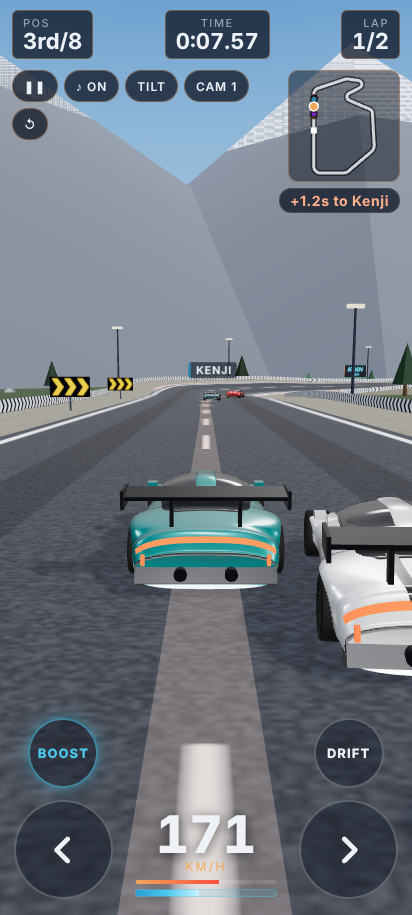
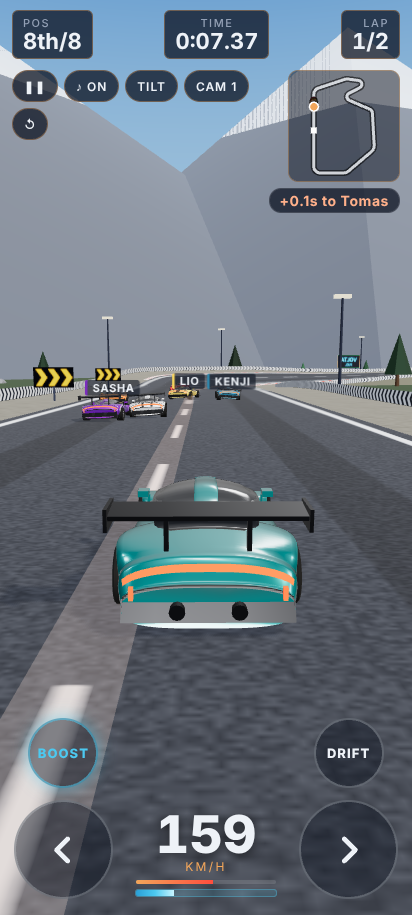
Retune difficulty: slower, mistake-prone Easy rivals with catch-up, steadier assisted handling, beginner-bot tests
Claude-Session: https://claude.ai/code/session_01GBobAJkSqpPVNqa2GTDbwk

diff --git a/src/main.js b/src/main.js
@@ -11,7 +11,8 @@ import { CARS, PAINTS, carById, carSpec } from "./cars.js";
 import { makeCar, setDoors, setRims, setDecal, RIMS, DECALS } from "./carmodel.js";
 import { Showroom } from "./showroom.js";
 import { Ghost } from "./ghost.js";
-import { assistSteer, cornerSpeed } from "./assist.js";
+import { assistSteer, cornerSpeed, smoothSteer } from "./assist.js";
+import { levelOf, slot, rivalSpec, AUTO_BRAKE, AUTO_ASSIST } from "./race.js";
 import { EVENTS, eventUnlocked, trackUnlocked, judge } from "./career.js";
 import { UPGRADES, MAX_LEVEL, upgradeCost, RIM_COST, raceRewards } from "./economy.js";
 import { Vehicle } from "./vehicle.js";
@@ -94,8 +95,6 @@ function buildPlayer(id = save.car) {
   G.player.spec = carSpec(def, cs.upgrades);
 }
 
-// Grid slots: two columns, staggered. The player starts near the back so there's a field to race through.
-function slot(k) { const row = Math.floor(k / 2), col = k % 2; return [-7 - row * 9 - col * 4.5, col ? -3.3 : 3.3]; }
 
 function buildRivals() {
   for (const r of G.rivals) scene.remove(r.model.group);
@@ -120,12 +119,12 @@ function gridUp() {
   const ps = slot(Math.min(G.gridSlot, G.rivals.length)); G.player.reset(ps[0], ps[1]);
   let k = 0;
   const ps2 = G.player.spec;
-  const DIFF = { easy: 0.93, normal: 1, hard: 1.035 }[save.settings.difficulty || "easy"];
-  for (const r of G.rivals) { r.out = false; r.driver.skill = (r.driver.baseSkill ?? r.baseSkill) * DIFF; }
+  const level = levelOf(save.settings.difficulty);
+  for (const r of G.rivals) { r.out = false; r.driver.skill = r.baseSkill; r.driver.level = level; }
   for (const r of G.field) {
     // rivals drive their own cars, but tuned halfway toward yours so races stay close
     const base = carSpec(carById(r.carId), {});
-    r.veh.spec = Object.fromEntries(Object.keys(base).map((key) => [key, base[key] * 0.45 + ps2[key] * 0.55]));
+    r.veh.spec = rivalSpec(base, ps2);
     if (k === Math.min(G.gridSlot, G.rivals.length)) k++;
     const [d, lat] = slot(G.field.length === 1 ? 0 : k++); r.veh.track = G.path; r.veh.boost = 0.25; r.veh.reset(d, lat); r.finished = null;
   }
@@ -469,6 +468,8 @@ function autopilot(v) {
 
 // Driver aids follow the settings; "auto" means on when rivals are on Easy.
 function applyAids() { const m = G.track && world.trackGroup && world.trackGroup.getObjectByName("racingLine"); if (m) m.visible = aidOn("line"); }
+// steering assist strength: Auto follows the difficulty (full on Easy, lighter on Medium, off on Hard)
+function assistLevel() { const v = save.settings.assist || "auto"; return v === "on" ? 0.55 : v === "off" ? 0 : AUTO_ASSIST[save.settings.difficulty || "easy"] || 0; }
 function aidOn(key) { const v = save.settings[key] || "auto"; return v === "on" || (v === "auto" && (save.settings.difficulty || "easy") === "easy"); }
 
 function stepRivals(dt) {
@@ -533,9 +534,11 @@ function step(dt) {
   const v = G.player, racing = G.mode === "race";
   const ctl = readControls();
   const ap = AUTOPILOT && racing ? autopilot(v) : null;
-  v.ctl.steer = ap ? ap.steer : racing ? assistSteer(v, G.path, ctl.steer, aidOn("assist") ? 0.55 : 0) : ctl.steer;
+  const aid = assistLevel();
+  const steerIn = input.tiltOn ? ctl.steer : smoothSteer(G.touch || (G.touch = {}), ctl.steer, v.vF, v.spec.vmax, dt);
+  v.ctl.steer = ap ? ap.steer : racing ? assistSteer(v, G.path, steerIn, aid) : steerIn;
   v.ctl.boost = ctl.boost; v.ctl.drift = ctl.drift; v.ctl.brake = ctl.brake;
-  v.ctl.targetSpeed = ap ? ap.targetSpeed : cornerSpeed(v, G.path);
+  v.ctl.targetSpeed = ap ? ap.targetSpeed : cornerSpeed(v, G.path, AUTO_BRAKE[save.settings.difficulty] || 1, aid ? 1 : 0);
   if (G.bog > 0) { G.bog -= dt; v.ctl.targetSpeed = Math.min(v.ctl.targetSpeed, 4); }
   if (G.mode === "race" || G.mode === "done") {
     v.step(dt, racing);
@@ -713,7 +716,7 @@ addEventListener("error", (e) => errors.push(String(e.message)));
 if (TEST) {
   window.__apex = {
     get mode() { return G.mode; },
-    get player() { const v = G.player; return { x: v.x, z: v.z, h: v.h, vF: v.vF, totalD: v.totalD, boost: v.boost, boosting: v.boosting, drifting: v.drifting, driftAngle: v.driftAngle, lat: v.lat }; },
+    get player() { const v = G.player; return { x: v.x, z: v.z, h: v.h, vF: v.vF, totalD: v.totalD, boost: v.boost, boosting: v.boosting, drifting: v.drifting, driftAngle: v.driftAngle, lat: v.lat, hErr: wrapA(v.h - v.p.h) }; },
     get skidCount() { return skids.n; },
     setBoost(b) { G.player.boost = b; },
     get laps() { return G.lapTimes.slice(); },

diff --git a/src/ai.js b/src/ai.js
@@ -1,6 +1,7 @@
 // Rule-based rival drivers. No learning, no network: each rival follows the racing line with its own personality,
 // brakes from the track's speed profile, makes the odd mistake, overtakes, defends, and uses slipstream and boost.
 import { makeRng } from "./rng.js";
+import { LEVELS } from "./race.js";
 
 const clamp = (v, a, b) => (v < a ? a : v > b ? b : v);
 const wrapA = (a) => { while (a > Math.PI) a -= 2 * Math.PI; while (a < -Math.PI) a += 2 * Math.PI; return a; };
@@ -22,7 +23,8 @@ const STYLES = {
 };
 
 export class Driver {
-  constructor(vehicle, profile, skill, seed) {
+  constructor(vehicle, profile, skill, seed, level = LEVELS.normal) {
+    this.level = level;
     this.v = vehicle; this.name = profile.name; this.color = profile.color; this.style = profile.style;
     this.p = STYLES[profile.style]; this.skill = skill; this.rnd = makeRng(seed);
     this.lineBias = (this.rnd() - 0.5) * 1.6;
@@ -36,7 +38,7 @@ export class Driver {
 
     // occasional mistakes: lift early or run wide for a moment
     if (this.mistakeT > 0) this.mistakeT -= dt;
-    else if (this.rnd() < P.mistake * dt * 6) { this.mistake = this.rnd() < 0.5 ? "lift" : "wide"; this.mistakeT = 0.8 + this.rnd() * 1.2; }
+    else if (this.rnd() < P.mistake * this.level.mistakes * dt * 6) { this.mistake = this.rnd() < 0.5 ? "lift" : "wide"; this.mistakeT = 0.8 + this.rnd() * 1.2; }
     if (this.mistakeT <= 0) this.mistake = null;
 
     // look for traffic ahead (overtake) and behind (defend)
@@ -73,17 +75,24 @@ export class Driver {
     const prof = t.speedProfile(v.spec.grip);
     let vt = Infinity;
     for (let k = 0; k < 44; k += 3) vt = Math.min(vt, prof[(v.p.i + k) % t.N]);
-    let pace = P.pace * this.skill * P.brake;
+    const Lv = this.level;
+    let pace = P.pace * this.skill * Lv.pace * (P.brake * Lv.brake);
     if (this.mistake === "lift") pace *= 0.86;
     // subtle rubber-banding so the pack stays together
     if (gapToPlayer > 120) pace *= 0.97; else if (gapToPlayer < -120) pace *= 1.03;
+    // catch-up help: when you're well behind, the rivals ahead of you ease off (only on the easier levels)
+    if (Lv.catchUp && gapToPlayer > 40) pace *= 1 - Lv.catchUp * Math.min(0.12, (gapToPlayer - 40) / 800);
     v.ctl.targetSpeed = vt * Math.min(1.02, pace);
+    // easy rivals also don't carry full speed on the straights
+    if (Lv.pace < 0.9) v.ctl.targetSpeed = Math.min(v.ctl.targetSpeed, v.spec.vmax * (Lv.pace + 0.06));
     // don't drive into the back of someone: follow until there's a gap to pass
     if (ahead && ahead.dd < 11 && Math.abs(ahead.dl) < 2.3) v.ctl.targetSpeed = Math.min(v.ctl.targetSpeed, ahead.o.vF + (this.style === "aggressive" ? 1.5 : 0));
 
     // boost on long straights
     let straight = Infinity; for (let k = 0; k < 60; k += 4) straight = Math.min(straight, prof[(v.p.i + k) % t.N]);
-    v.ctl.boost = straight > v.spec.vmax * 0.95 && v.boost > 0.3 && this.rnd() < P.boost;
+    // boost: hard rivals pick the straights; easy ones fire it at random-ish moments, often wasting it
+    const wantBoost = this.rnd() < Lv.boost ? straight > v.spec.vmax * 0.95 : this.rnd() < 0.004;
+    if (!v.boosting) v.ctl.boost = wantBoost && v.boost > 0.3 && this.rnd() < P.boost * Lv.boost;
     if (!v.boosting) v.boost = Math.min(1, v.boost + dt * 0.02);
     v.ctl.drift = false; v.ctl.brake = false;
   }

diff --git a/tests/sim.js b/tests/sim.js
@@ -1,0 +1,60 @@
+// Headless race simulator for tests: the same physics, AI, assists and race setup the game uses, with a
+// "beginner bot" standing in for the player.
+import { TRACKS } from "../src/tracks.js";
+import { TrackPath } from "../src/track.js";
+import { CARS, carSpec } from "../src/cars.js";
+import { Vehicle } from "../src/vehicle.js";
+import { Driver, RIVALS, collide } from "../src/ai.js";
+import { assistSteer, cornerSpeed, lineSteer, smoothSteer } from "../src/assist.js";
+import { levelOf, slot, rivalSpec, AUTO_BRAKE, AUTO_ASSIST } from "../src/race.js";
+import { makeRng } from "../src/rng.js";
+
+// A beginner: holds left or right (like touching a half of the screen), reacts ~0.3 s late, only steers once the
+// car is clearly off line, looks away now and then, and never boosts.
+export class BeginnerBot {
+  constructor(seed) { this.rnd = makeRng(seed); this.queue = []; this.away = 0; this.hold = 0; }
+  input(v, t, dt) {
+    const want = lineSteer(v, t, 0.3);
+    let press = Math.abs(want) > 0.25 ? Math.sign(want) : 0;
+    if (this.away > 0) { this.away -= dt; press = 0; } else if (this.rnd() < dt / 12) this.away = 0.4 + this.rnd() * 0.5;
+    this.queue.push(press);
+    return this.queue.length > 12 ? this.queue.shift() : 0; // 12 frames = 0.2 s reaction time
+  }
+}
+
+export function race(trackId, levelName, { seed = 7, aids = AUTO_ASSIST[levelName] || 0, laps = 2 } = {}) {
+  const def = TRACKS.find((t) => t.id === trackId), path = new TrackPath(def), level = levelOf(levelName);
+  const rnd = makeRng(seed);
+  const player = new Vehicle(carSpec(CARS[0]), path);
+  const ps = slot(5); player.reset(ps[0], ps[1]);
+  const rivals = [];
+  for (let k = 0, s = 0; k < 7; k++, s++) {
+    if (s === 5) s++;
+    const cdef = CARS[(k + 1) % CARS.length], veh = new Vehicle(rivalSpec(carSpec(cdef), player.spec), path);
+    const [d, lat] = slot(s); veh.reset(d, lat);
+    const drv = new Driver(veh, RIVALS[k], 0.95 + rnd() * 0.05, seed * 31 + k, level);
+    rivals.push({ veh, drv, name: RIVALS[k].name });
+  }
+  const bot = new BeginnerBot(seed + 99), L = path.length * laps, cars = [player, ...rivals.map((r) => r.veh)];
+  let t = 0, finish = null; const done = new Map(); const stats = { walls: 0, off: 0, latAbs: 0 };
+  for (let step = 0; step < 60 * 400 && finish == null; step++) {
+    const dt = 1 / 60; t += dt;
+    const input = smoothSteer(bot, bot.input(player, path, dt), player.vF, player.spec.vmax, dt);
+    player.ctl.steer = assistSteer(player, path, input, aids);
+    player.ctl.targetSpeed = cornerSpeed(player, path, AUTO_BRAKE[levelName] || 1, aids ? 1 : 0);
+    player.ctl.boost = false; player.ctl.drift = false;
+    player.step(dt, true);
+    if (player.wallHit > 1) stats.walls++;
+    if (player.offTrack) stats.off += dt;
+    stats.latAbs += Math.abs(player.lat) * dt;
+    for (const r of rivals) {
+      r.drv.think(dt, cars, r.veh.totalD - player.totalD);
+      r.veh.step(dt, true);
+      if (!done.has(r) && r.veh.totalD >= L) done.set(r, t);
+    }
+    collide(cars);
+    if (player.totalD >= L) finish = t;
+  }
+  const place = 1 + rivals.filter((r) => done.has(r) && done.get(r) < finish).length;
+  return { place, time: finish, walls: stats.walls, off: +stats.off.toFixed(1), latAvg: +(stats.latAbs / finish).toFixed(1), rivalBest: Math.min(...done.values()) };
+}

diff --git a/sw.js b/sw.js
@@ -1,6 +1,6 @@
 // Generated by scripts/sw.mjs. Cache-first service worker so Apex Ring works offline once installed.
-const CACHE = "apex-ring-9a98acd85d";
-const FILES = ["./","./icons/icon-192.png","./icons/icon-512.png","./icons/icon.svg","./index.html","./manifest.webmanifest","./src/ai.js","./src/assist.js","./src/audio.js","./src/camera.js","./src/career.js","./src/carmodel.js","./src/cars.js","./src/economy.js","./src/effects.js","./src/env.js","./src/ghost.js","./src/input.js","./src/main.js","./src/minimap.js","./src/rng.js","./src/save.js","./src/scene.js","./src/scenery.js","./src/showroom.js","./src/textures.js","./src/track.js","./src/trackmesh.js","./src/tracks.js","./src/vehicle.js","./styles.css","./vendor/three/addons/environments/RoomEnvironment.js","./vendor/three/addons/postprocessing/EffectComposer.js","./vendor/three/addons/postprocessing/MaskPass.js","./vendor/three/addons/postprocessing/OutputPass.js","./vendor/three/addons/postprocessing/Pass.js","./vendor/three/addons/postprocessing/RenderPass.js","./vendor/three/addons/postprocessing/ShaderPass.js","./vendor/three/addons/postprocessing/UnrealBloomPass.js","./vendor/three/addons/shaders/CopyShader.js","./vendor/three/addons/shaders/LuminosityHighPassShader.js","./vendor/three/addons/shaders/OutputShader.js","./vendor/three/addons/utils/BufferGeometryUtils.js","./vendor/three/three.core.js","./vendor/three/three.module.js"];
+const CACHE = "apex-ring-5aab456bd0";
+const FILES = ["./","./icons/icon-192.png","./icons/icon-512.png","./icons/icon.svg","./index.html","./manifest.webmanifest","./src/ai.js","./src/assist.js","./src/audio.js","./src/camera.js","./src/career.js","./src/carmodel.js","./src/cars.js","./src/economy.js","./src/effects.js","./src/env.js","./src/ghost.js","./src/input.js","./src/main.js","./src/minimap.js","./src/race.js","./src/rng.js","./src/save.js","./src/scene.js","./src/scenery.js","./src/showroom.js","./src/textures.js","./src/track.js","./src/trackmesh.js","./src/tracks.js","./src/vehicle.js","./styles.css","./vendor/three/addons/environments/RoomEnvironment.js","./vendor/three/addons/postprocessing/EffectComposer.js","./vendor/three/addons/postprocessing/MaskPass.js","./vendor/three/addons/postprocessing/OutputPass.js","./vendor/three/addons/postprocessing/Pass.js","./vendor/three/addons/postprocessing/RenderPass.js","./vendor/three/addons/postprocessing/ShaderPass.js","./vendor/three/addons/postprocessing/UnrealBloomPass.js","./vendor/three/addons/shaders/CopyShader.js","./vendor/three/addons/shaders/LuminosityHighPassShader.js","./vendor/three/addons/shaders/OutputShader.js","./vendor/three/addons/utils/BufferGeometryUtils.js","./vendor/three/three.core.js","./vendor/three/three.module.js"];
 
 self.addEventListener("install", (e) => { e.waitUntil(caches.open(CACHE).then((c) => c.addAll(FILES)).then(() => self.skipWaiting())); });
 self.addEventListener("activate", (e) => {

diff --git a/src/assist.js b/src/assist.js
@@ -13,11 +13,17 @@ export function lineSteer(v, t, lineScale = 0.85) {
 }
 
 // Target speed for the auto-brake. margin > 1 brakes later (harder), < 1 earlier (safer).
-export function cornerSpeed(v, t, margin = 1.06) {
-  if (v.drifting) return Infinity;
+// guard > 0 also lifts when the car is heading for a barrier it can't turn away from in time.
+export function cornerSpeed(v, t, margin = 1.06, guard = 0) {
   const prof = t.speedProfile(v.spec.grip * 1.1);
   let vt = Infinity; for (let k = 2; k < 30; k += 3) vt = Math.min(vt, prof[(v.p.i + k) % t.N]);
-  return vt * margin;
+  vt *= margin;
+  if (guard) {
+    const trx = -Math.cos(v.p.h), trz = Math.sin(v.p.h), latV = v.vx * trx + v.vz * trz;
+    const room = t.width / 2 + t.runoff - 2 - Math.abs(v.lat);
+    if (Math.sign(latV) === Math.sign(v.lat) && Math.abs(latV) > 1 && room / Math.abs(latV) < 0.8) vt = Math.min(vt, v.vF * (1 - 0.25 * guard));
+  }
+  return vt;
 }
 
 // Blend the player's steering with the assist. strength 0..1 (0 = off).
@@ -26,7 +32,14 @@ export function assistSteer(v, t, input, strength) {
   let out = input;
   // toward the racing line: strongest when the player isn't steering, light touch when they are
   const ls = lineSteer(v, t);
-  out += (ls - input) * strength * (Math.abs(input) < 0.05 ? 0.6 : 0.2);
+  // heading limiter: you can't swing the nose much more than ~15-20 degrees off the track's direction,
+  // which stops a late correction turning into a weave from wall to wall
+  const hErr = wrapA(v.h - v.p.h); // > 0: pointing left of the track
+  const away = input < 0 ? hErr : -hErr; // how far the current input is pushing the nose away
+  if (away > 0.12) input *= Math.max(0, 1 - (away - 0.12) / (0.18 / Math.max(0.3, strength * 1.8)));
+  out = input;
+  const fighting = Math.abs(input) > 0.05 && Math.sign(input) !== Math.sign(ls) && Math.abs(ls) > 0.2;
+  out += (ls - input) * strength * (Math.abs(input) < 0.05 ? 0.6 : fighting ? 0.45 : 0.2);
   // wall guard: predict where the car will be in ~0.7 s and steer away if that's near the barrier
   const trx = -Math.cos(v.p.h), trz = Math.sin(v.p.h);
   const latV = v.vx * trx + v.vz * trz;
@@ -36,4 +49,14 @@ export function assistSteer(v, t, input, strength) {
     out -= Math.sign(v.lat) * push; // positive lateral is the right-hand side, so steer left (negative)
   }
   return clamp(out, -1, 1);
+}
+
+// Touch steering is on/off, so build the lock up progressively (slower at speed) and let it go quickly.
+// state is any object; returns the smoothed steering value.
+export function smoothSteer(state, raw, vF, vmax, dt) {
+  const cur = state.s || 0, f = Math.min(1, Math.max(0, vF / vmax));
+  const toward = Math.abs(raw) > Math.abs(cur) && Math.sign(raw) !== -Math.sign(cur);
+  const rate = toward ? 5 - 3 * f : 10;
+  state.s = cur + (raw - cur) * Math.min(1, dt * rate);
+  return state.s;
 }

diff --git a/src/race.js b/src/race.js
@@ -1,0 +1,24 @@
+// Race setup shared by the game and the tests: difficulty levels, grid slots and rival car tuning.
+
+// pace: share of the ideal corner speed rivals carry; brake: how late they brake (lower = earlier);
+// mistakes: how often they slip up; boost: how well they use boost; catchUp: rivals ease off when you fall behind.
+export const LEVELS = {
+  easy: { pace: 0.74, brake: 0.92, mistakes: 2.5, boost: 0.25, catchUp: 1 },
+  normal: { pace: 0.785, brake: 0.96, mistakes: 1.3, boost: 0.7, catchUp: 0.3 },
+  hard: { pace: 1.0, brake: 1.03, mistakes: 0.6, boost: 1, catchUp: 0 },
+};
+export const levelOf = (name) => LEVELS[name] || LEVELS.easy;
+
+// Grid slots: two columns, staggered. The player starts near the back so there's a field to race through.
+export function slot(k) { const row = Math.floor(k / 2), col = k % 2; return [-7 - row * 9 - col * 4.5, col ? -3.6 : 3.6]; }
+
+// Rivals drive their own cars, tuned halfway toward the player's so upgrades help without breaking races.
+export function rivalSpec(base, player) {
+  return Object.fromEntries(Object.keys(base).map((k) => [k, base[k] * 0.45 + player[k] * 0.55]));
+}
+
+// Corner-speed margin for the player's auto-brake by level: Easy brakes earliest.
+export const AUTO_BRAKE = { easy: 0.9, normal: 1.0, hard: 1.06 };
+
+// Steering-assist strength when the setting is Auto: full on Easy, a bit lighter on Medium, off on Hard.
+export const AUTO_ASSIST = { easy: 0.55, normal: 0.45, hard: 0 };

diff --git a/tests/game.spec.js b/tests/game.spec.js
@@ -33,20 +33,13 @@ test.describe("Apex Ring", () => {
     await page.waitForFunction((d0) => window.__apex.player.totalD > d0 + 20, a.totalD, { timeout: 20_000 });
     const b = await game(page, () => window.__apex.player);
     expect(b.vF).toBeGreaterThan(5);
-    // steer right for a moment and compare heading change with the track's own curve
-    const h0 = (await game(page, () => window.__apex.player)).h;
+    // hold right, then left: the nose should point right of the track, then left of it (hErr > 0 = pointing left)
     await page.keyboard.down("ArrowRight");
-    await page.waitForTimeout(400);
+    await page.waitForFunction(() => window.__apex.player.hErr < -0.04, null, { timeout: 10_000 });
     await page.keyboard.up("ArrowRight");
-    const h1 = (await game(page, () => window.__apex.player)).h;
     await page.keyboard.down("ArrowLeft");
-    await page.waitForTimeout(400);
+    await page.waitForFunction(() => window.__apex.player.hErr > 0.04, null, { timeout: 10_000 });
     await page.keyboard.up("ArrowLeft");
-    const h2 = (await game(page, () => window.__apex.player)).h;
-    const d = (x) => Math.atan2(Math.sin(x), Math.cos(x));
-    // right turns decrease heading, left turns increase it
-    expect(d(h1 - h0)).toBeLessThan(d(h2 - h1));
-    expect(Math.abs(d(h1 - h0))).toBeGreaterThan(0.05);
   });
 
   test("drifting leaves skid marks and fills boost; boost spends it", async ({ page }) => {

diff --git a/tests/difficulty.spec.js b/tests/difficulty.spec.js
@@ -1,0 +1,27 @@
+import { test, expect } from "@playwright/test";
+import { race } from "./sim.js";
+import { TRACKS } from "../src/tracks.js";
+
+// A "beginner bot" (on/off steering, 0.2 s late, lazy, looks away now and then, never boosts) races the real AI.
+const seeds = [1, 2, 3, 4];
+
+test("a beginner finishes in the top 3 on every Easy track on Easy", () => {
+  for (const t of TRACKS.filter((t) => t.difficulty === 1)) for (const seed of seeds) {
+    const r = race(t.id, "easy", { seed });
+    expect(r.place, `${t.id} seed ${seed}`).toBeLessThanOrEqual(3);
+  }
+});
+
+test("a beginner ends up mid-pack on Medium", () => {
+  let sum = 0, n = 0;
+  for (const t of TRACKS) for (const seed of seeds) { sum += race(t.id, "normal", { seed }).place; n++; }
+  const avg = sum / n;
+  expect(avg).toBeGreaterThanOrEqual(3);
+  expect(avg).toBeLessThanOrEqual(6);
+});
+
+test("Hard is properly hard for a beginner", () => {
+  let sum = 0, n = 0;
+  for (const t of TRACKS.filter((t) => t.difficulty === 1)) { sum += race(t.id, "hard", { seed: 1 }).place; n++; }
+  expect(sum / n).toBeGreaterThanOrEqual(6);
+});

diff --git a/index.html b/index.html
@@ -152,7 +152,7 @@
     <div class="tabs" id="assistTabs"><button class="tab" data-a="auto" type="button">Auto</button><button class="tab" data-a="on" type="button">On</button><button class="tab" data-a="off" type="button">Off</button></div>
     <div class="label">Racing line on the road</div>
     <div class="tabs" id="lineTabs"><button class="tab" data-l="auto" type="button">Auto</button><button class="tab" data-l="on" type="button">On</button><button class="tab" data-l="off" type="button">Off</button></div>
-    <div class="hint">Auto = on when rivals are set to Easy.</div>
+    <div class="hint">Auto: assist is full on Easy, lighter on Medium, off on Hard; the racing line shows on Easy.</div>
     <div class="label">Sound</div>
     <div class="tabs" id="soundTabs"><button class="tab" data-s="1" type="button">On</button><button class="tab" data-s="0" type="button">Off</button></div>
     <button class="btn ghost danger" id="resetBtn" type="button">Reset all progress</button>

diff --git a/CLAUDE.md b/CLAUDE.md
@@ -103,3 +103,13 @@ Feedback from a real Pixel 7: looks great, too hard. Five fixes, one commit each
   nudges toward the racing line and steers away from a barrier it predicts you'll hit in ~0.7 s. Settings: Steering
   assist and Racing line each Auto/On/Off, where Auto = on when rivals are Easy (new default difficulty: Easy).
   Choice: old saves keep their career progress; trial targets and some events changed to suit the new tracks.
+- Fix 2 — difficulty: src/race.js holds the levels (pace, braking point, mistakes, boost skill, catch-up), grid slots and
+  rival car tuning, shared by the game and the tests. tests/sim.js is a headless race with a "beginner bot" (on/off
+  steering, 0.2 s late, lazy dead zone, looks away now and then, never boosts). Finding: on/off steering with any
+  reaction delay made the car weave wall to wall, which is likely what made it feel too hard on the phone. Fixes:
+  progressive touch steering (lock builds up over ~0.3 s at speed, releases fast), a heading limiter in the assist
+  (the nose can't swing much past ~15-20 degrees off the track direction), assist resists steering that fights the line,
+  and the auto-brake lifts if you're about to hit a barrier you can't turn away from. Auto assist = full on Easy,
+  a bit lighter on Medium, off on Hard. Easy rivals: 74% pace, early braking, 2.5x mistakes, poor boost, catch-up when
+  you're behind. Medium: 78.5%. Hard: unchanged. tests/difficulty.spec.js: beginner top 3 on every Easy track (4 seeds),
+  mid-pack (avg 3-6) on Medium across all tracks, ~last on Hard.
